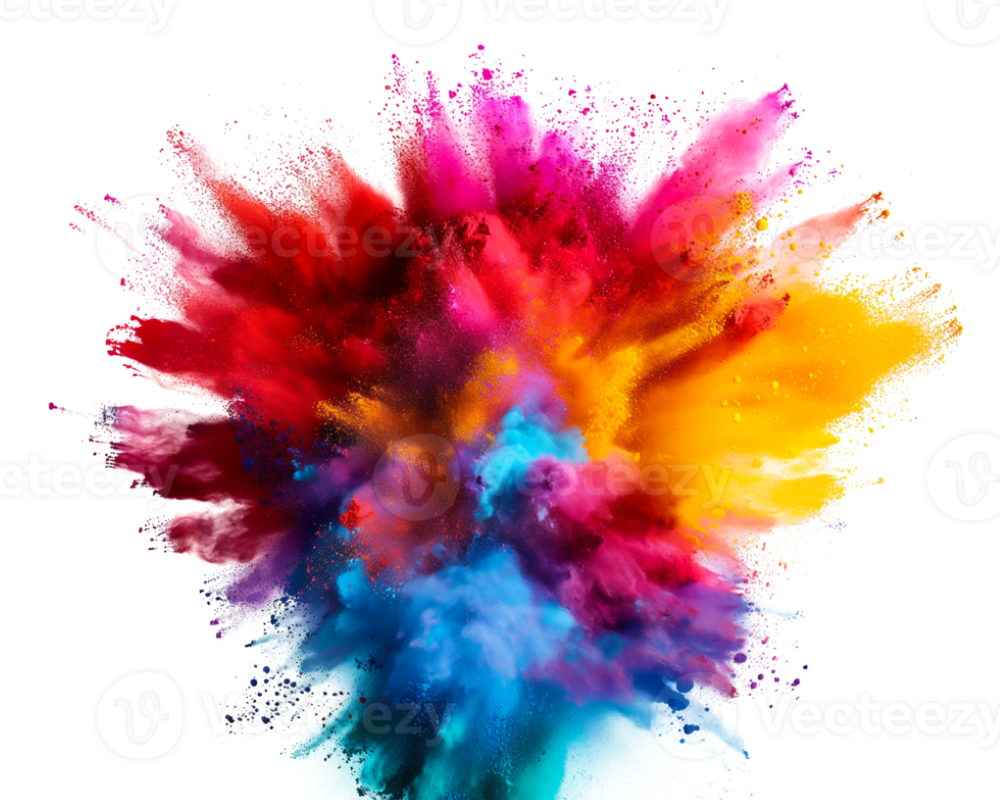
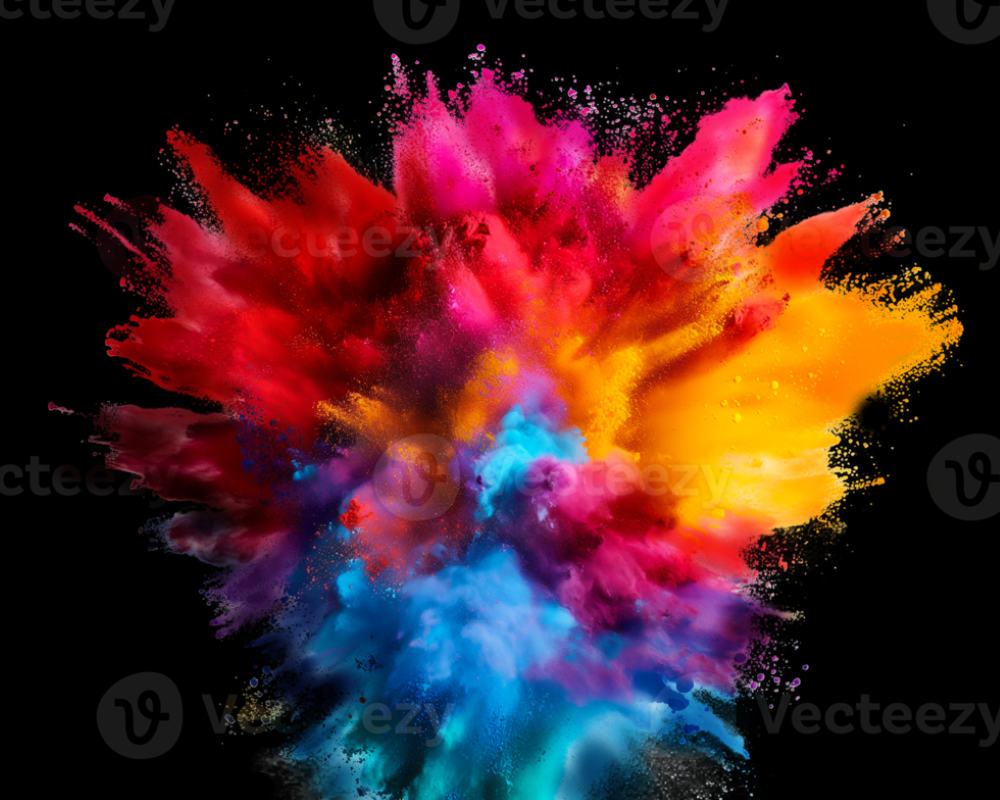
Changes by RunHD

diff --git a/Game/MK5/client.py b/Game/MK5/client.py
@@ -110,7 +110,7 @@ class Client:
                     continue
 
                 # Zeichnen
-                self.win.fill((0, 0, 0))
+                self.win.blit(hintergrundbild, (0, 0))
                 me.draw(self.win)
                 enemy.draw(self.win)
                 self.ball.draw(self.win)
